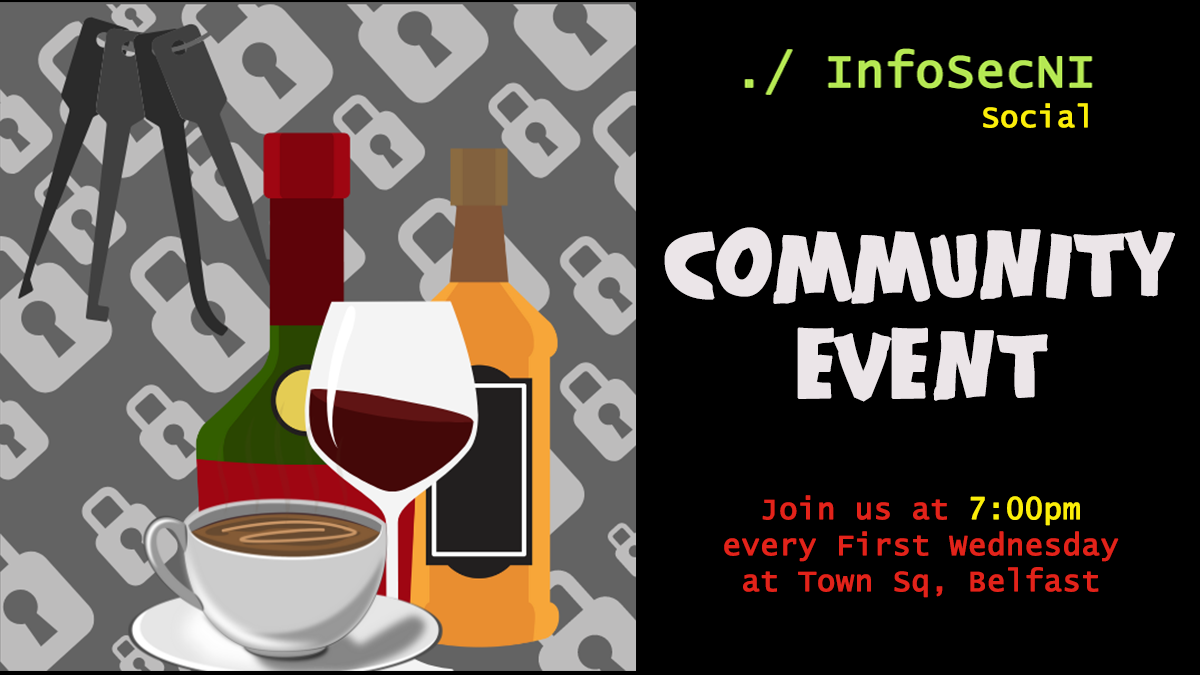
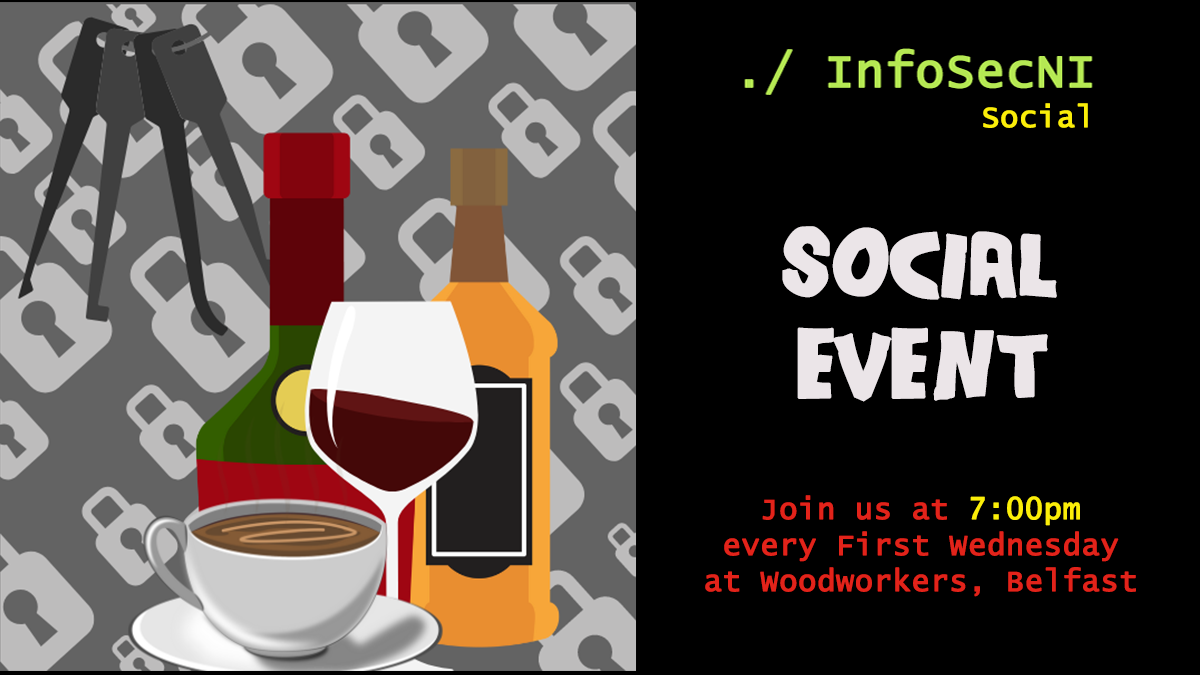
added new images, added to welcome text
Changes to be committed:
	modified:   README.md
	modified:   Social_ad.png
	infosecNI.svg
	infosecNI_logo.png

Changed region(s): [[0.555, 0.3111, 0.9867, 0.4667], [0.5858, 0.84, 0.9558, 0.9022]]

diff --git a/README.md b/README.md
@@ -2,6 +2,8 @@
 
 [![](/Social_ad.png)](https://www.meetup.com/infosec-ni/)
 
+We're building a community of infosec folks in Northern Ireland. Everyone is welcome whether you're a pro, an amateur or just a wannabe! Our aim is to chat about security, help each other out with questions and projects, and provide a social setting for all of this.
+
 The core collaborative group spans a wide range of infosec companies, government and charities. We hope this will ensure no one place has any over-riding influence, and will prevent the organising burden resting precariously on only one or two people. *If you’d also like to be more involved please do reach out.*
 
 # Links
@@ -23,6 +25,8 @@ In the coming weeks and months you can look forward to;
 (CTF platforms discussed included JuiceBox, HackTheBox and Boot2Root, as well as a custom solution for our own challenges, but other suggestions would be welcomed!)
 	*(CTF platforms discussed included JuiceBox, HackTheBox and Boot2Root, as well as a custom solution for our own challenges, but other suggestions would be welcomed!)*
 *	General infosec online meetups/hangouts, with a speaker and then general chat.
+
+[Events calendar](https://www.meetup.com/infosec-ni/events/calendar/)
 
 # Community Philosophy 
 
